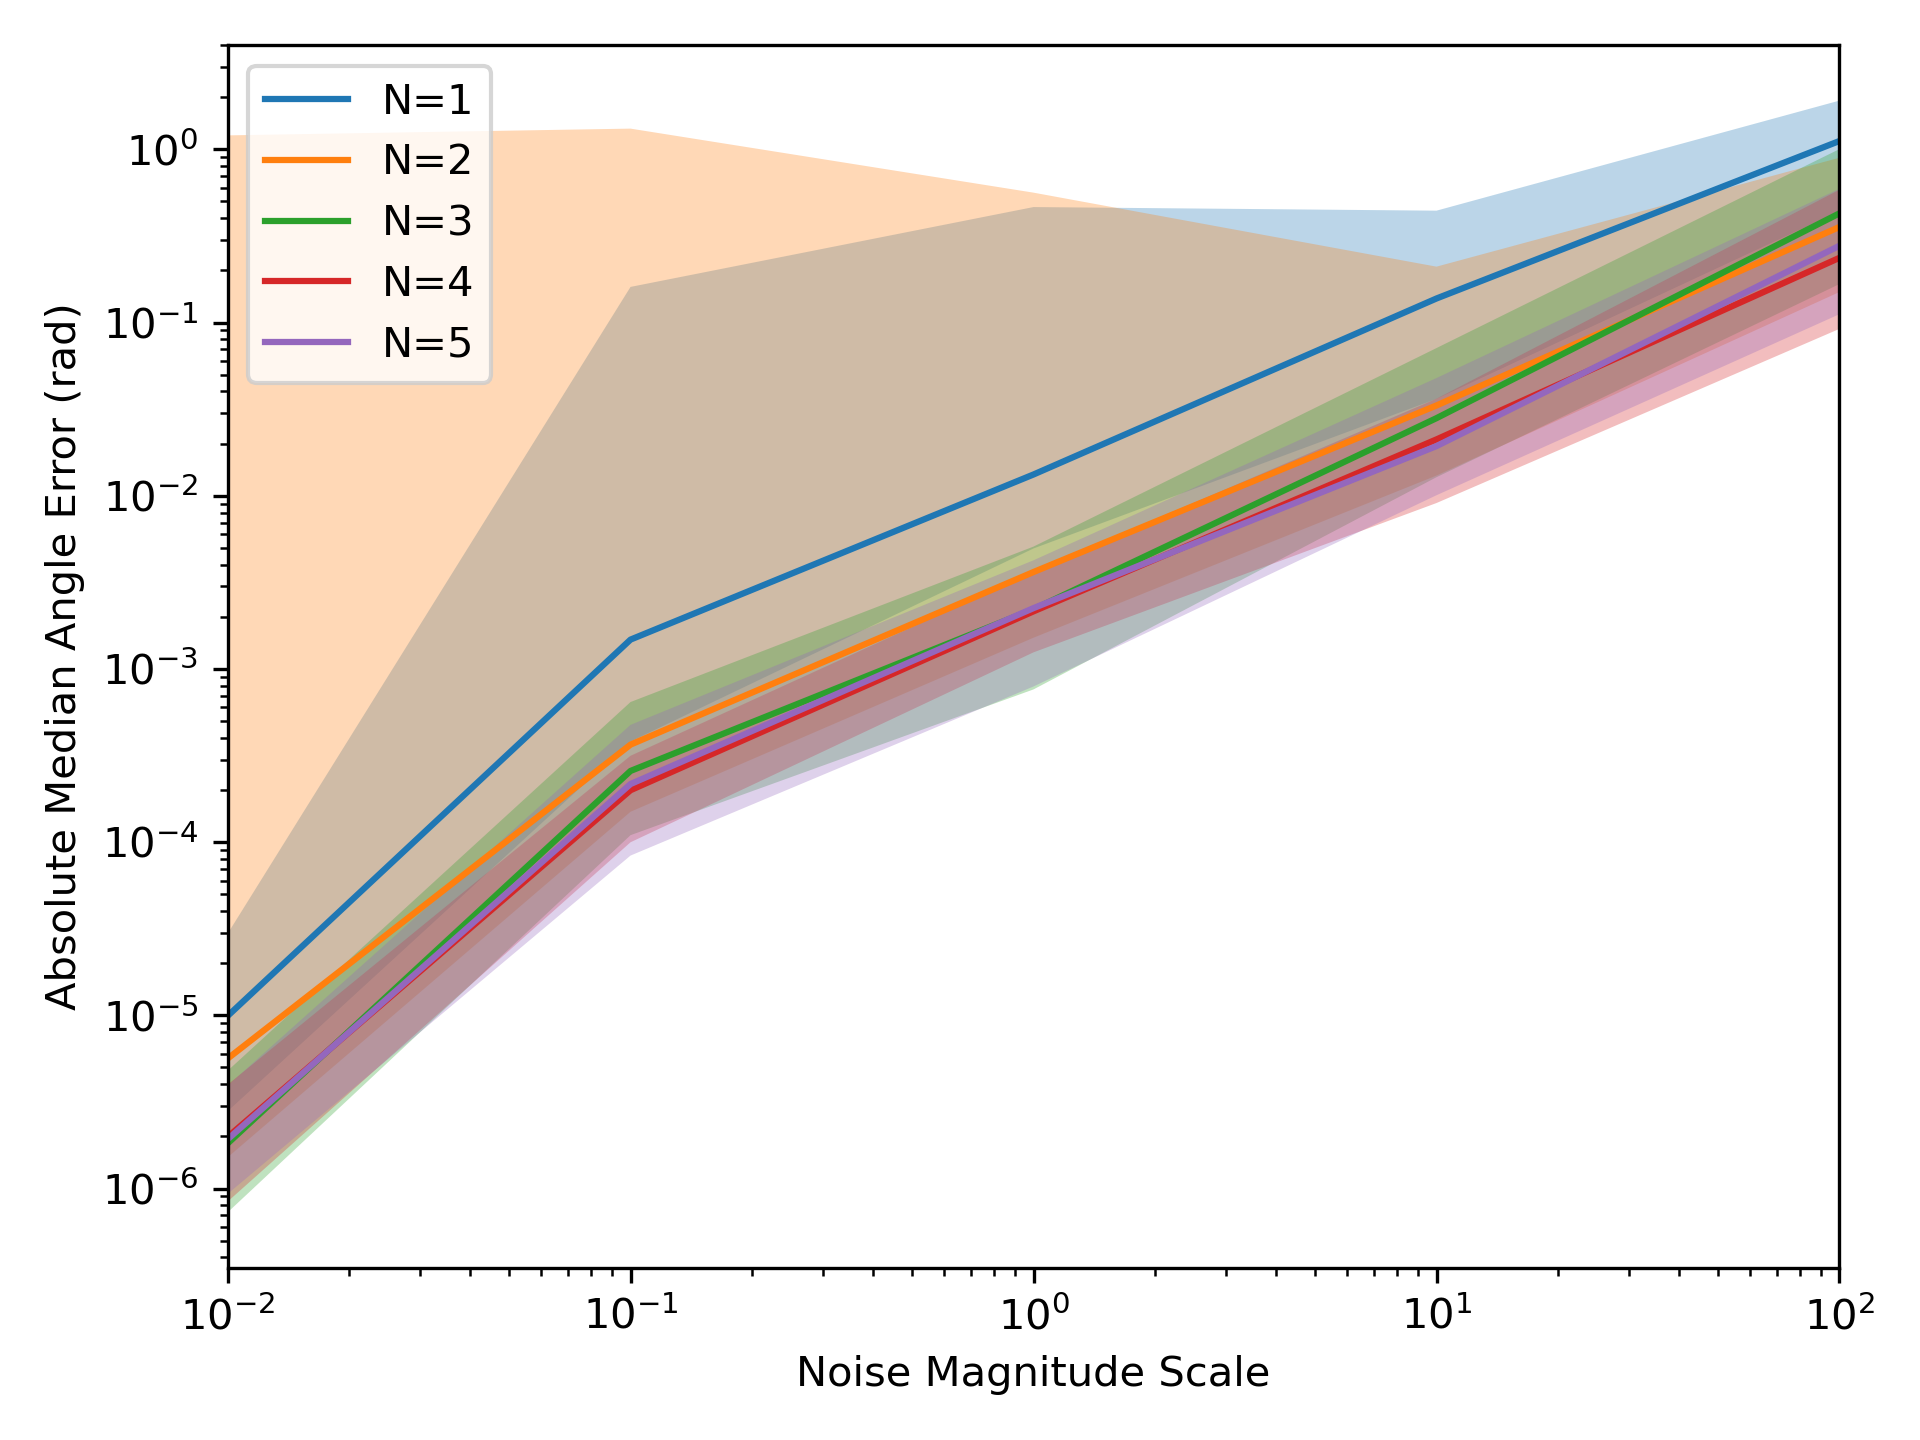
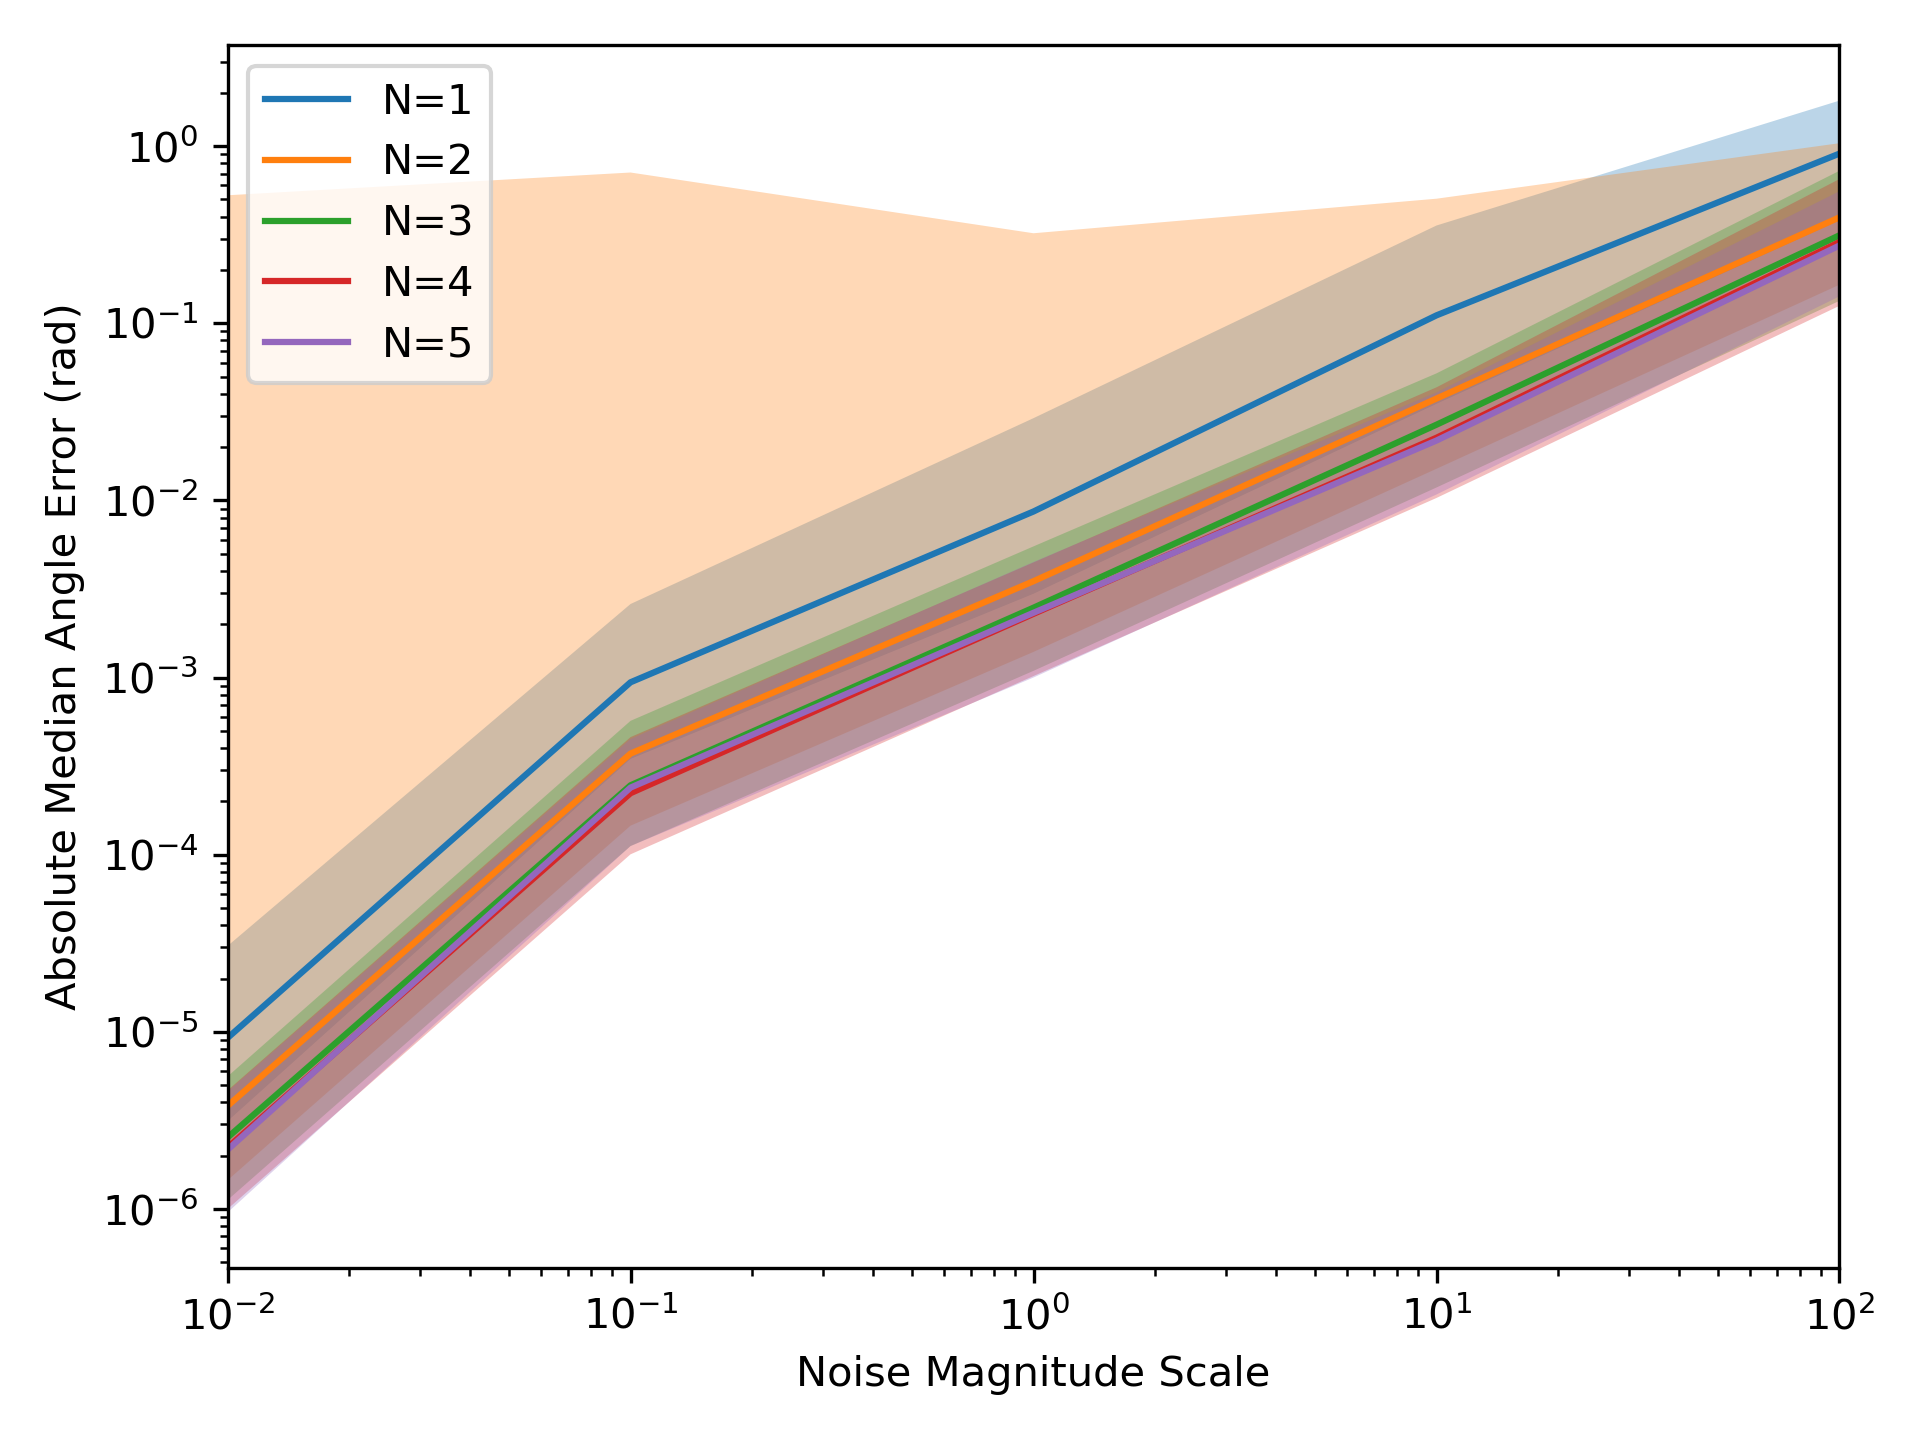
added noise level generation easier to monte carlo simulation generation

diff --git a/src/monte_carlo.py b/src/monte_carlo.py
@@ -76,13 +76,14 @@ def jacobian(input_x, odometry):
     return np.hstack([xyz_jac, theta_jac[:, None]]) * 2
 
 
-def LSQ(initial_state, odometry):
+def LSQ(initial_state, odometry, random_scale=1.):
     odometry_copy = odometry
 
     # np.random.normal(np.zeros(4), [5, 5, 0, np.pi / 2])
 
     random_odometry = np.random.normal(np.zeros(odometry.shape[1]),
-                                       [20 / 1000, 5 / 1000, 5 / 1000, 0, 5 / 1000, 5 / 1000, 0, np.pi / 1000],
+                                       np.array([20 / 1000, 5 / 1000, 5 / 1000, 0, 5 / 1000, 5 / 1000, 0,
+                                                 np.pi / 1000]) * random_scale,
                                        odometry.shape)
 
     odometry_copy += random_odometry
@@ -244,7 +245,7 @@ def plot_result(result, odometry):
     plt.plot(global_xyz_tag[:, 0], global_xyz_tag[:, 1], c='g')
 
 
-def generate_output(N_ROBOTS=1, T=10, plot=False):
+def generate_output(N_ROBOTS=1, T=10, plot=False, random_scale=1.):
     BOUNDS = 20
 
     target_robot = gen_random_robot(BOUNDS, target=True)
@@ -290,7 +291,7 @@ def generate_output(N_ROBOTS=1, T=10, plot=False):
     odometry_data = np.array(odometry_data)
     target_robot_data = np.array(target_robot_data)
 
-    output = LSQ(initial_state, odometry_data)
+    output = LSQ(initial_state, odometry_data, random_scale)
 
     if plot:
         for i in range(data.shape[0]):
@@ -315,38 +316,46 @@ def generate_output(N_ROBOTS=1, T=10, plot=False):
     return initial_state, output
 
 
-def generate_monte_carlo():
+def generate_monte_carlo(noise_levels=False):
     MAX_N_ROBOTS = 5
     MAX_T = 10
     GENERATIONS = 1000
 
     monte_carlo_data = dict()
 
+    if noise_levels:
+        Tmax = [MAX_T]
+        scaleMax = [0.001, 0.1, 1, 10, 100]
+    else:
+        Tmax = range(1, MAX_T + 1)
+        scaleMax = [1]
+
     for N_ROBOTS in range(1, MAX_N_ROBOTS + 1):
         for_n_robot = []
 
-        for T in range(1, MAX_T + 1):
-            print(N_ROBOTS, T)
+        for T in Tmax:
+            for scale in scaleMax:
+                print(N_ROBOTS, T, scale)
 
-            data = []
+                data = []
 
-            for _ in range(GENERATIONS):
-                target, actual = generate_output(N_ROBOTS, T)
+                for _ in range(GENERATIONS):
+                    target, actual = generate_output(N_ROBOTS, T, random_scale=scale)
 
-                data.append([*actual, *target])
+                    data.append([*actual, *target])
 
-            data = np.array(data)
+                data = np.array(data)
 
-            pose_diff = data[:, 0:3] - data[:, 4: 7]
-            theta_diff = angle_diff(data[:, 3], data[:, 7])
+                pose_diff = data[:, 0:3] - data[:, 4: 7]
+                theta_diff = angle_diff(data[:, 3], data[:, 7])
 
-            differences = np.concatenate([pose_diff[:, :2], theta_diff[:, np.newaxis]], axis=1)
+                differences = np.concatenate([pose_diff[:, :2], theta_diff[:, np.newaxis]], axis=1)
 
-            for_n_robot.append(differences.tolist())
+                for_n_robot.append(differences.tolist())
 
         monte_carlo_data[N_ROBOTS] = for_n_robot
 
-    with open('save_data.json', 'w') as f:
+    with open(f'save_data{"_noise" if noise_levels else ""}.json', 'w') as f:
         json.dump(monte_carlo_data, f)
 
 
@@ -365,8 +374,8 @@ def plot_monete_carlo():
         plt.show()
 
 
-def plot_violins():
-    with open('save_data.json', 'r') as f:
+def plot_violins(noise_levels=False):
+    with open(f'save_data{"_noise" if noise_levels else ""}.json', 'r') as f:
         data = json.load(f)
 
     poses_fig: Figure = plt.figure()
@@ -415,6 +424,9 @@ def plot_violins():
 
         x = np.array(range(len(means))) + 1
 
+        if noise_levels:
+            x = np.array([0.01, 0.1, 1, 10, 100])
+
         min_t = min(x)
         max_t = max(x)
 
@@ -426,20 +438,31 @@ def plot_violins():
         angles_ax.fill_between(x, angle_min_quantile, angle_max_quantile, alpha=0.3)
 
     poses_ax.set_ylabel('Median Position Error (m)')
-    poses_ax.set_xlabel('Time Horizon (s)')
+    if noise_levels:
+        poses_ax.set_xlabel('Noise Magnitude Scale')
+    else:
+        poses_ax.set_xlabel('Time Horizon (s)')
     poses_ax.legend()
     poses_ax.set_xlim([min_t, max_t])
     poses_ax.set_yscale('log')
+
+    if noise_levels:
+        poses_ax.set_xscale('log')
     poses_fig.tight_layout()
-    poses_fig.savefig('monte_carlo_poses.png')
+    poses_fig.savefig(f'monte_carlo_poses{"_noise" if noise_levels else ""}.png')
 
     angles_ax.set_ylabel('Absolute Median Angle Error (rad)')
-    angles_ax.set_xlabel('Time Horizon (s)')
+    if noise_levels:
+        angles_ax.set_xlabel('Noise Magnitude Scale')
+    else:
+        angles_ax.set_xlabel('Time Horizon (s)')
     angles_ax.set_xlim([min_t, max_t])
     angles_ax.legend()
     angles_ax.set_yscale('log')
+    if noise_levels:
+        angles_ax.set_xscale('log')
     angles_fig.tight_layout()
-    angles_fig.savefig('monte_carlo_angles.png')
+    angles_fig.savefig(f'monte_carlo_angles{"_noise" if noise_levels else ""}.png')
 
     plt.show()
 
@@ -450,8 +473,10 @@ if __name__ == '__main__':
     # for i in range(5):
     # generate_output(10, 10, True)
 
-    # generate_monte_carlo()
+    generate_monte_carlo()
 
     # plot_monete_carlo()
 
     plot_violins()
+
+    # generate_output(10, 10, True, random_scale=1)
